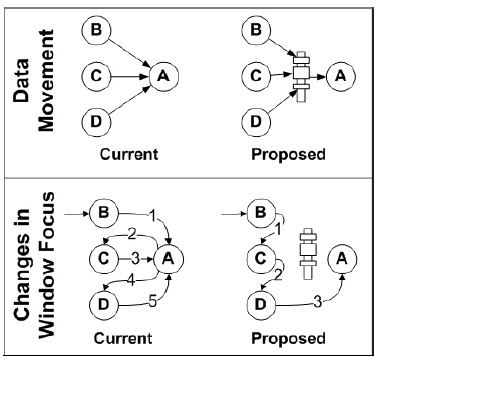
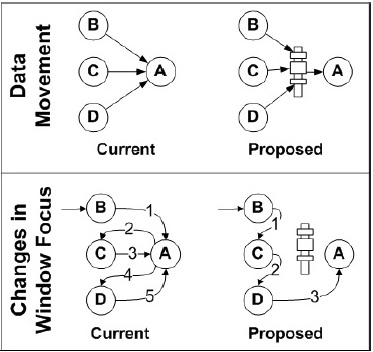
bulk changes after saturday group meeting

Changed region(s): [[0.0, 0.0, 1.0, 1.0], [0.0, 0.9688, 0.0295, 1.0]]

diff --git a/ACM_proc.tex b/ACM_proc.tex
@@ -13,12 +13,16 @@
 
 \documentclass{acm_proc_article-sp}
 \usepackage{graphicx}
+\usepackage{hyperref}
 
+\makeatletter
+\def\@copyrightspace{\relax}
+\makeatother
 
 \begin{document}
 
 \title{Copy and Paste Habits and Improvements for the Everyday Programmer}
-\subtitle{February 1 Deliverable}
+\subtitle{February 1 Deliverable\thanks{This report is Group G's first project deliverable for CSC 510 in the Spring of 2016 taught by Dr. T. Menzies at North Carolina State University.}}
 
 \numberofauthors{4} 
 \author{
@@ -46,11 +50,10 @@ Ran Tan\\
 }
 
 \date{1 February 2016}
-
-
 \maketitle
+
 \begin{abstract}
-Abstract text. 
+Computer programmers rely on a myriad of tools and production environments in order to produce quality software in a productive manner. Of these tools the simple copy and paste command is used frequently by programmers to save time. In this paper we examine the behavioral motivations as to why programmers make use of the copy and paste command, as well as when and how they actually use it. As well, we investigate the problems that can arise from using this command in the form of code clones and duplications, and their implications. Finally we propose a project wherein we will be building a fully feature Eclipse IDE plug-in, Clipit, which will give Java programmers a visual clipboard manager that enhances their productivity when copying and pasting, and alleviates the problems caused by using this common command.
 \end{abstract}
 
 %see http://www.acm.org/sigs/publications/sigguide-v2.2sp section 2.3.2
@@ -65,9 +68,9 @@ Abstract text.
 \keywords{Code cloning, code duplication, copy and pasting, eclipse plug-ins, programmer habits, programmer productivity}
 
 \section{Introduction}
-One of the most common operations computer users apply in their daily computer use is copy and paste. An incredibly simple to understand tool, copy and paste allows users to take information from one location, briefly store it, and then leave that information elsewhere. This simple tool is commonplace for computer users, and it is especially useful to computer programmers. 
+One of the most common operations computer users apply in their daily computer use is copy and paste. An incredibly simple to understand tool, copy and paste allows users to take information from one location, briefly store it, and then leave that information elsewhere. This simple tool is commonplace for computer users, and it is especially useful to computer programmers.
 
-In the field of computer programming users frequently make use of the copy and past operation for a myriad of reasons. For one, it is essential in the practice of relocating, regrouping, or reorganizing code from one place to another. Along these lines programmers also use the command in the act of reordering parts of their code, rather than rewriting. Finally, perhaps the most common use of the copy and paste command is when a programmer copies a block of code, either from inside sources within their existing code base or outside it, to use as a structural template ~\cite{ooplCP}.
+In the field of computer programming, users frequently make use of the copy and past operation for a myriad of reasons. For one, it is essential in the practice of relocating, regrouping, or reorganizing code from one place to another. Along these lines programmers also use the command in the act of reordering parts of their code, rather than rewriting. Finally, perhaps the most common use of the copy and paste command is when a programmer copies a block of code, either from inside sources within their existing code base or outside it, to use as a structural template ~\cite{ooplCP}.
 
 However, while there is much to be gained from the copy and paste operation for programmers, it is also important to realize that despite the operation's convenience and simplicity, the act of copying and pasting introduces a variety of errors. In one study analyzing programmer habits, it was found that copying and pasting can introduce errors by pasting incomplete copies, and failing to update their context. In this study they found that these sorts of errors actually reduced productivity as a whole for the programmer by delaying development in the long run ~\cite{maintenenceStudy}
 
@@ -75,78 +78,135 @@ Yet despite the apparent errors that can be introduced by copying and pasting, p
 
 In this paper we investigate the copy and paste command as used in software engineering in greater detail. In particular we present a literature review on the topic as it has been investigated in numerous studies and research experiments. We look at the user patterns and behavioral components that go into using this command, as well as the command itself in practice. We also look at heavier theoretical applications to copying and pasting such as code cloning and pattern detection. Ultimately though, we use this research to show that there is untapped potential in the copy and paste command for programmers, which can be addressed by a fully featured clipboard manager plug-in for the Eclipse IDE, similar to one described in ~\cite{ooplCP}.
 
-\section{Project Goals}
-Effat!
-PUTG
-Project features
-\\
-1. Multi-item\\
- User often switches back and forth between windows to copy and paste. If we can design a clipboard that holds \textit{ multiple item at a time}, it can reduce switching. For example, if a user copies a students name, email address, institution name to a form, a multi- item clipboard manager can hold each item separately and paste it altogether. \\
- 
- Multiple item can also be from multiple windows. Figure \ref{fig:Multi} describes two different variations of multiple item copy pasting ~\cite{cpHabits}. The upper portion is copying multiple items from a single source. The bottom portion depicts copying from multiple windows.\\
- 
- The proposed method for copying multiple items from a single source has already been described above. For multiple items from different windows, the copied item from all the sources will be pasted to destination at a time, and each copied item from one window  will move to the next window via clipboard.\\
- \begin{figure}[h]
- \centering
-\includegraphics[width=10cm]{MultiItem}
-\caption{Multiple Item Copy and Pasting}
-    \label{fig:Multi}
-\end{figure}
-2. System Wide copy\\
-For this purpose, we perform a finer level of analysis and consider user copy and paste behavior between windows, where an application may have multiple windows (e.g., worksheets in spreadsheets, tabs in browsers,  find dialog for a word processor). A graphical representation of system wise copy and pasting is illustrated in Figure \ref{fig:System} ~\cite{cpHabits}. Advanced window management techniques such as restacking or rolling partially overlapping windows have been shown to be effective ~\cite{overlapWindow}. Adding a feature to reduce the overhead of switching among multiple windows would be desirable.
- \begin{figure}[h]
- \centering
-\includegraphics[width=10cm]{Window}
-\caption{System Wide Copy and Pasting}
-    \label{fig:System}
-\end{figure}
-3. Context Awareness\\
-    a. How do we display items?\\
-    b. How do we order the items?\\
-4. Code Cloning   \\
-5. Design Pattern detection\\ 
-6. Touch screen interactions\\
-
 \section{User Patterns and Behavior}
-Brian!
-Why do we need to copy/paste
-Studies that show we copy/paste a lot
+In this section we discuss in further detail why and how programmers use the copy and paste command in their daily work-flow. As discussed in the introduction, this command is actually used quite frequently, as one IBM study has shown it is used on average 16 times an hour by professional programmers. Specifically, this study followed nine IBM Watson researches for 60 hours while they coded in Java in their natural working environment. Essentially the researches broke this group of nine programmers into two case studies, the first of which involved direct observations with questions throughout ten hours of coding. While the second of which involved using a background logger and replayer system integrated into the participants' machines which allowed for 50 hours of observation yet less interviews. This study is described in figure  \ref{fig:oopl}~\cite{ooplCP}, and the report surrounding this study has been widely cited 240 times since 2004, we will reference it frequently throughout our report.
 
-\section{Copy and Paste in Practice}
-Arjun!
-Default clipboard, between windows, studies on copy and pasting with stats, current existing solutions.
+ \begin{figure}[h]
+ \centering
+\includegraphics[width=8cm]{ooplStudy}
+\caption{Description of Study Environment}
+    \label{fig:oopl}
+\end{figure}
+
+According to this IBM study, they observed that 74\% of all copy and paste instances copied text less than a single line. These cases would be simple copies like copying a variable name, a type or method declaration, and in these cases the command was most likely used for the sake of saving typing time. Of the remaining copies, however, they found that these were instances of copying blocks of code. Specifically in these cases the use of the copy and paste command created code duplicates and heavily reflected in the resulting structure of the code base ~\cite{ooplCP}.
+
+The reason these structural code duplicates are important, is because there is an entire field of research focused on the errors that occur because of code duplicates ~\cite{devWorkHabits}. Even though according to one study these types of artifacts are only created roughly 25\% of the time, if you multiply that by the average 16 copy and paste instances per hour that means that the average professional programmer creates four non-trivial copy and paste dependencies per hour ~\cite{ooplCP}. 
+
+But what exactly do these non-trivial dependencies look like? To answer this we turn to a Microsoft study which consisted of thoroughly surveying and interviewing professional programmers who worked at Microsoft Corporation. This study is quite influential and has been cited 367 times since 2006, for the most part though it's influence is felt in other areas programmer habit study, though they specifically spent a section of their report discussing copy and paste habits. They conducted their study by creating a participant pool of 6000 programmers at Microsoft Corporation, and sending out two different surveys to subsets of size 200 from the participant pool. In both cases the subsets were asked roughly 200 questions and participation was nearly complete. Finally, after conducting both surveys 11 individual programmers were individually interviewed ~\cite{devWorkHabits}. 
+
+In the results of their interviews these researches found that could create a taxonomy of categories of code duplication, and further detail the frequency of each category and importance of the problem ~\cite{devWorkHabits}. Some of these categories are unrelated to our concerns on copy and paste habits, yet three are particularly relevant. 
+
+The first involves 'example clones' which refers to code that is copied from an outside source and is used as an example, or a template, for use in a new context. These clones were actually the most studied, and the researchers found that it is difficult to say one way or another if the clones would be better off factored into a new abstraction. 
+
+The second category is 'scattered clones', or logical clones, and these are similar to the majority of copy and paste instances discussed earlier. For the most part these clones are simply the copy and paste of variable names, method headers, etc., and due to their nature they tend to propagate themselves throughout a code base. Because of this duplicitous nature, these duplicates can be hard to manage en masse, and multiple interviewees reported that when dealing with changing a root duplicate in these cases they would often "hope for the best" and hope that testers found any other necessary changes.
+
+Finally, the third relevant category for copy and pasting deals with 'fork clones'. These types of clones occur when a developer 'forks' another code base by literally copying the entire thing to start new development on. In the production environment this can occur when a team needs to use code that another team isn't ready to ship, so they are forced to create a full copy of it and start tailoring it to their needs. In nearly every interview the subjects reported that when possible it is best to avoid these types of clones, unless the only alternative is to implement the functionality from scratch. When these are necessary, a higher maintenance burden is places on the new code base, and testing must be thorough ~\cite{devWorkHabits}.
+
+Clearly, the copy and paste command is incredibly influential in a programmer's work-flow, and while sometimes it can aid in creating non-trivial code clones, for the most part the negative effect of these clones is ambiguous. 
+
+\section{Copy and Paste in Practice}\label{Copy}
 
 All operating systems come with a system clipboard. It involves storing a single item, whether a piece of text, URL, image, or file to a place in memory. This item can then be retrieved multiple times and copied to appropriate locations. The main drawback of such a system is that when a new item is copied to memory, all information regarding the previous one is lost. If users wanted to obtain this information again, they would have to find the item and copy or cut it again. Programmers typically use the  clipboard to copy and paste code from other sources into the code they're writing.~\cite{codeReuse}
 
 There are many solutions that exist that make the system clipboard easier and quicker to use. X Window~\cite{overlapWindow} is an application that speeds up by having users drag to select text and then use the middle-click of the mouse to paste, instead of the default keyboard option. While this does offer more convenience, and saves some time, it doesn't address the main pain point with the system clipboard.
 
-A significant improvement over this is the multi-item clipboard.~\cite{cpHabits} It stores multiple items in memory, and allows a way of retrieving them through shortcuts or a visual interface. The main advantage of this method is the time users save, as they don't have to go back to the source of an older item in order to paste it. Figure 1 shows how there are fewer changes in window focus, thereby saving the user time. A study conducted shows that this is actually the most common method of copy and pasting, resulting in the time saved by having a multi-item clipboard being significant.
+A significant improvement over this is the multi-item clipboard.~\cite{cpHabits} It stores multiple items in memory, and allows a way of retrieving them through shortcuts or a visual interface. The main advantage of this method is the time users save, as they don't have to go back to the source of an older item in order to paste it. Figure \ref{fig:Multi}~\cite{cpHabits} shows how there are fewer changes in window focus, thereby saving the user time. The study conducted by Stolee et al. monitored 15 users and recorded their copy-paste actions. In total, 2544 clipboard interactions were captured and the most frequent type of copy-paste was across windows, occurring 38\% of the time. They also observed that 20\% of the items on the clipboard were pasted multiple times, with the average number of destinations being 3. In these situations, having a multi-item clipboard would significantly reduce the time taken to paste items previously copied, by allowing the user to paste without having to switch windows repeatedly.
 
-These type of multi-clipboards can be especially useful for programmers where studies show that an average programmer copies and pastes code 16 times for every hour of programming.~\cite{ooplCP} A problem with the existing solutions is that they are not targeted specifically at programmers. A clipboard manager could help eliminate some of the common problems a programmer faces. 
+These type of multi-item clipboards can be especially useful for programmers as shown by the IBM study where researchers found that the average programmer copies and pastes code 16 times for every hour of programming.~\cite{ooplCP} A problem with the existing solutions is that they are not targeted specifically at programmers. A clipboard manager could help eliminate some of the common problems a programmer faces, some of which are discussed in detail in Section 5.1.
 
+An example of an already existing multi-item clipboard plugin for Eclipse, an IDE used primarily for Java development is More Clipboard.~\cite{moreclipboard} It keeps track of items copied and pasted and makes them available in a list, that allows users to paste information several copies back. It fails at assisting programmers with other commonly faced issues such as identifying the context, and detecting code cloning and design patterns. It also doesn't work too well with displaying large chunks of code, something we're looking to address in our proposed extension.
 
 \section{Code Cloning and Pattern Detection}
-Ran!
-Theoretical section on code cloning and pattern detection and management.
-\iffalse
-Our study of copy and paste in IDE environment falls into the general area of code clone. A study of the concepts and techniques of code clone will be of great support for our project. 
-\fi
-The concept of clones.
-According to Ira Baxter, “Clones are segments of code that are similar according to some definition of similarity.”
+Our study of copy and paste in Eclipse IDE falls into the general area of code clone. And many of the problems addressed above can be better solved by applying techniques in code clone, together with an improved clipboard. Therefore, a preliminary understanding of the concepts and techniques of code clone will be of great help for both current project and further work. 
 
-The causes of clones.
+The concept of clone in software engineering is a kind of similarity. According to Ira Baxter, "Clones are segments of code that are similar according to some definition of similarity". And this kind of similarity can be based on either program texts or semantics.~\cite{frontiers} The similarity of program text can be defined in terms of text tokens, syntax or data and control dependencies, while the similarity of semantics is harder to define and is undecided yet.~\cite{frontiers} Based on program text similarity, code clone can be classified into three types: exact clone, which is an exact copy of consecutive code fragments without any modification; parameter-substituted clone, which is a copy of code fragments where only parameters like identifiers or literals are substituted; and structure-substituted clone, which is a copy of code fragments where parts of the structure are changed. The relation of these three types of cloning can be best illustrated with a syntax tree, where replacing a leaf generates a parameter-substituted clone and replacing a sub-tree leads to a structure-substituted clone. 
 
-The consequences of clones.
+To efficiently manage clones of code, clone detection methods are needed. There are several comparison based clone detection methods that help us locate and track clones. The simplest one is text comparison, which compares program text textually. It can be applied to any kind of programs but is sensitive to changes in parameters or sub-structures. An alternative method is token comparison, which first turns a program into streams of tokens and then tries to find similar token sequences. But the mere lexical analysis may lead to incomplete or syntactically incorrect code blocks. Instead of comparing text content directly, we can transfer text content into vectors and compare metric vectors in terms of Euclidean distance. While in practice, Euclidean distance may not best fit the content, and we need to select one metric that is independent of program text, significant in distance and wide applicable to various situations. Last but not least, we can compare program dependency graphs. A program dependency graph is constructed by only data and control dependencies within the code and thus is resilient to changes in parameters or substructures. A typical clone detection process is shown in Figure \ref{fig:detect}~\cite{towards_tool}.
 
-The evolvement of clones.
+ \begin{figure}[h]
+ \centering
+\includegraphics[width=10cm]{clone_detection}
+\caption{Clone Detection Process}
+    \label{fig:detect}
+\end{figure}
 
+To understand the evolution of code clone, ~\cite{empirical} developed a model of clone genealogy. In the model, 
 
+ \begin{figure}[h]
+ \centering
+\includegraphics[width=8cm]{lineage}
+\caption{An Example of Clone lineage}
+    \label{fig:linea}
+\end{figure}
 
+ \begin{figure}[h]
+ \centering
+\includegraphics[width=8cm]{genealogy}
+\caption{An Example of Clone Genealogy}
+    \label{fig:genea}
+\end{figure}
 
+Code clone roots in the limitation of programming languages and comes out as programmers reuse pieces of code for strategies like forking, templating and customization. As long as programmers go on adopting strategies of forking to bootstrap development of similar solutions, templating for abstraction and customization for new features, code clone will remain a big issue within software development.~\cite{frontiers} For this particular reason, understanding how clones evolve, examining the cons and pros of code clone, and further more, detecting and managing clones in code will remain themes of software engineering.
+
+\section{Project Goals}
+Here we have to focus on \textit{PUGT}-Document some problem \textit{P} with some user group \textit{U} using some software tool \textit{T} to achieve some goal \textit{G}.\\
+\textit{P}: Efficient copy and pasting for coders. It is focused in section \ref{Copy}.\\
+\textit{U}: The target user groups are programmers specifically Java programmers.\\
+\textit{G}: The goal of this project to provide features to improve copy and pasting solutions. The possible implementable featues are described in subsection $5.1$.\\
+\textit{T}: The tool we will use is the Eclipse IDE.
+
+\subsection{Project Features} 
+1. Multi-item\\
+ User often switches back and forth between windows to copy and paste. If we can design a clipboard that holds \textit{ multiple item at a time}, it can reduce switching. For example, if a user copies a students name, email address, institution name to a form, a multi- item clipboard manager can hold each item separately and paste it altogether.
+ 
+ Multiple item can also be from multiple windows. Figure \ref{fig:Multi} describes two different variations of multiple item copy pasting ~\cite{cpHabits}. The upper portion is copying multiple items from a single source. The bottom portion depicts copying from multiple windows.
+ 
+ The proposed method for copying multiple items from a single source has already been described above. For multiple items from different windows, the copied item from all the sources will be pasted to destination at a time, and each copied item from one window  will move to the next window via clipboard.
+ 
+ \begin{figure}[h]
+ \centering
+\includegraphics[width=8cm]{MultiItem}
+\caption{Multiple Item Copy and Pasting}
+    \label{fig:Multi}
+\end{figure} 
+
+2. System Wide copy\\
+For this purpose, we perform a finer level of analysis and consider user copy and paste behavior between windows, where an application may have multiple windows (e.g., worksheets in spreadsheets, tabs in browsers,  find dialog for a word processor). A graphical representation of system wise copy and pasting is illustrated in Figure \ref{fig:System} ~\cite{cpHabits}. Advanced window management techniques such as restacking or rolling partially overlapping windows have been shown to be effective ~\cite{overlapWindow}. Adding a feature to reduce the overhead of switching among multiple windows would be desirable.
+
+ \begin{figure}[h]
+ \centering
+\includegraphics[width=7cm]{Window}
+\caption{System Wide Copy and Pasting}
+    \label{fig:System}
+\end{figure} 
+
+3. Context Awareness\\
+If a user has to switch between windows to copy and paste, a context aware clipboard can reduce many transitions by allowing multiple related copies or pasting. Two parts or points have to be considered for context awaring copy and pasting:\\
+    a. How do we order the items based on contextual information?\\
+    b. How do we paste items ?
+    
+    Some clipboards like Citrine ~\cite{Citrine} and Entity Quick Click ~\cite{Entity} support context awareness features partially. Citrine is an intelligent clipboard: it copies data, extracts contextual information and partition the data accordingly. Thus ordering of items are done. Regarding the second part, Citrine allows user to paste all the partitioned data to the destination in a single click. But the user is responsible for manipulating Citrine to map the data for pasting. Entity works in a similar fashion like Citrine. Item ordering of Entity allows user to select multiple items with a single click on each item, gathers contextual information, and partitions data accordingly. For pasting, user is responsible for integrating contextual support and multiple pasting.
+
+4. Code Cloning\\
+ If developers modify a code fragment, they have to determine
+whether or not to modify its code clones in source code. An intelligent clipboard can  give some suggestions to manage code cloning more smartly. Possible features could be-detect code cloning, and displaying message - "You copied here, forgot to get change here." There are tools for code clone detection,  ~\cite{CloneTag}, we could incorporate these idea into clipboards.
+
+5. Design Pattern detection\\ 
+Design patterns are typically used as guidelines during
+software development.Recovering design patterns can enhance existing source code analysis tools by bringing program understanding to
+the design level. The paper ~\cite{Pattern} discusses the state-of-the-art pattern detection tools.It would be really beneficial to software developers if we could identify whether code pasted follows the recommended  design patterns.
+
+6. Touch Screen Interactions\\
+If there is touch screen environment support, features could be included such as :tap on code fragments to be copied, and paste at desired destination. \\
+7. Intelligent Display Manager\\
+~\cite{bworld}
 
 \section{Conclusion}
-Arjun!
-Refresh on our main points and themes. Talk about our 3/4 features we will be doing.
+All programmers make use of the copy-paste functionality as part of their work-flow while programming. Studies have shown that the average programmer performs these actions 16 times in an hour, and uses the default system clipboard for this. Using the default system clipboard can lead to a few unintended consequences such as code cloning, issues with using common design patterns, and a general reduction in productivity by having to switch between files, projects, and windows while copy-pasting code multiple times.
+
+While there are a several clipboard managers that deal with some of these problems, not many of them are targeted specifically at programmers, or implement features to tackle all of these problems.
+
+We propose Clipit, an intelligent Eclipse clipboard extension that is designed specifically to improve a programmers productivity, and make programming better. Clipit has features such as being multi-item, reducing the time taken while pasting a previously copied item by eliminating the time taken to switch between windows. It also orders items and displays code intelligently, knowing when to show only a portion of a large chunk of code. Clipit also uses keyboard shortcuts similar to those used the default clipboard manager, making it easy to use. 
 
 \bibliographystyle{abbrv}
 \bibliography{citations}
